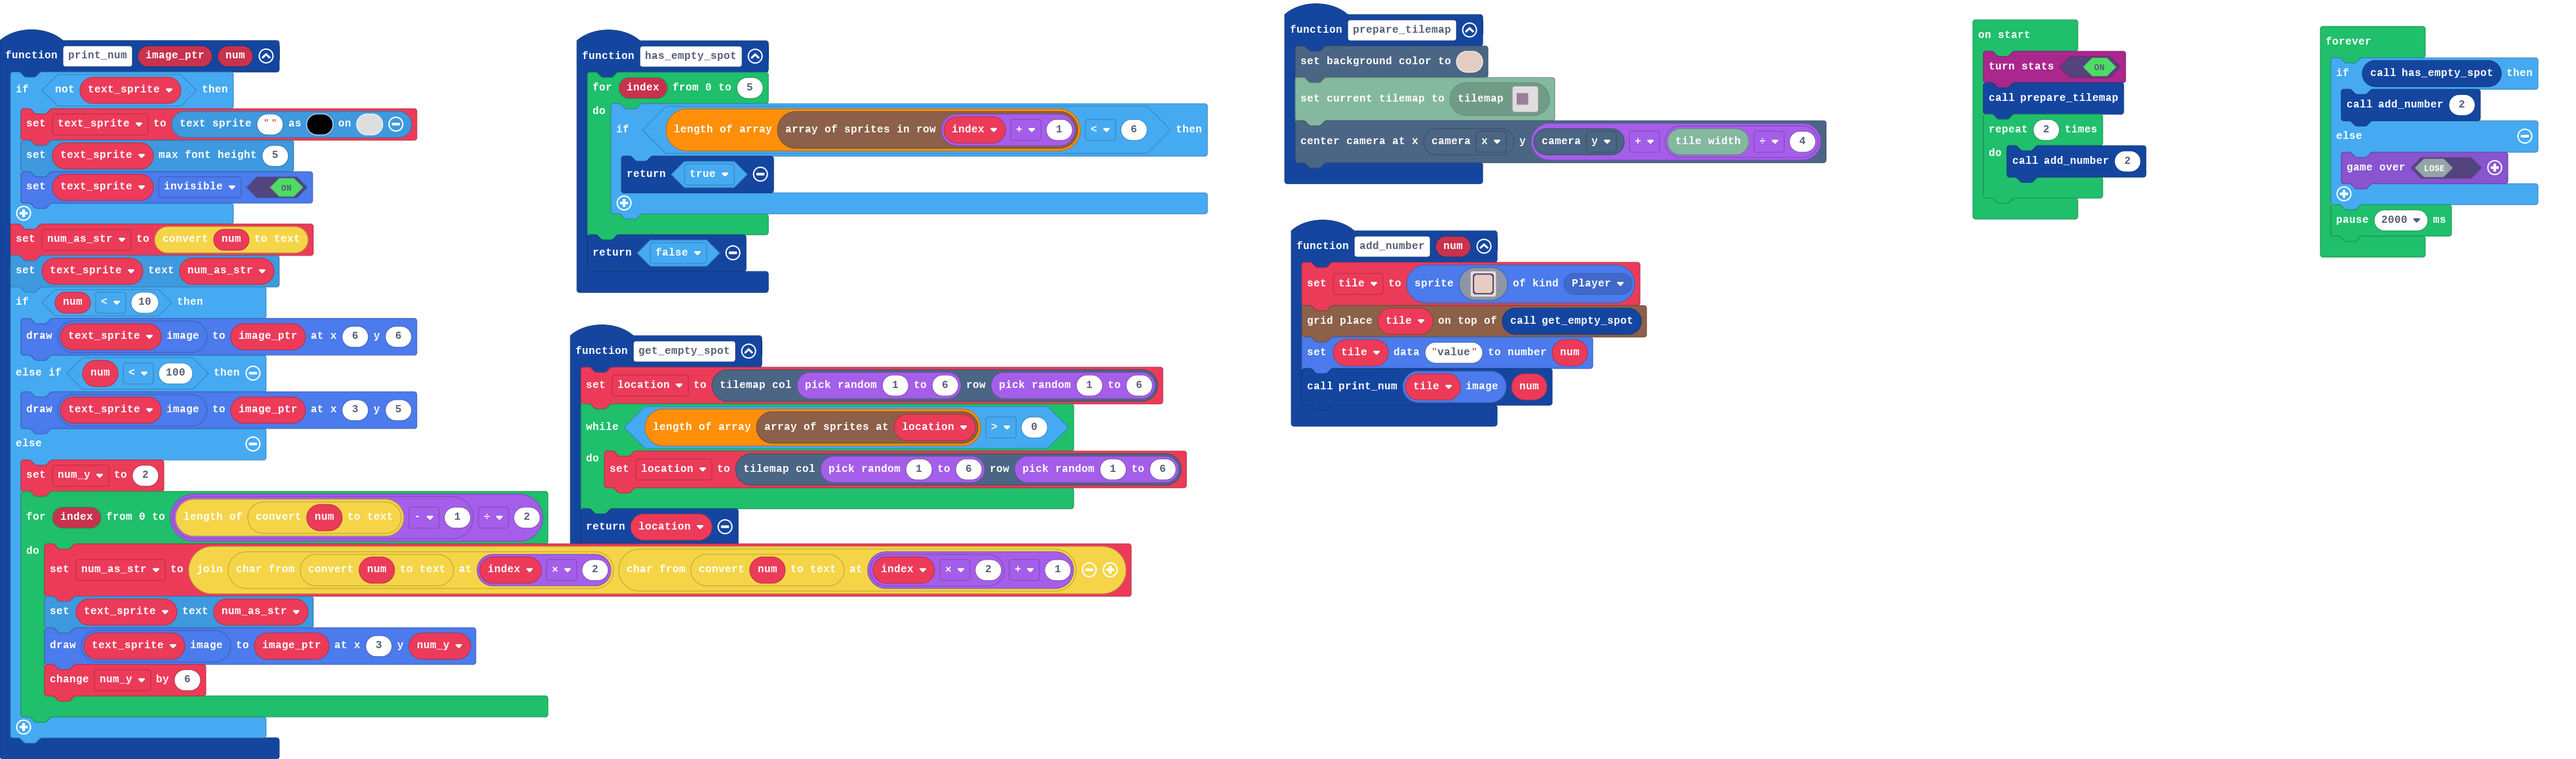
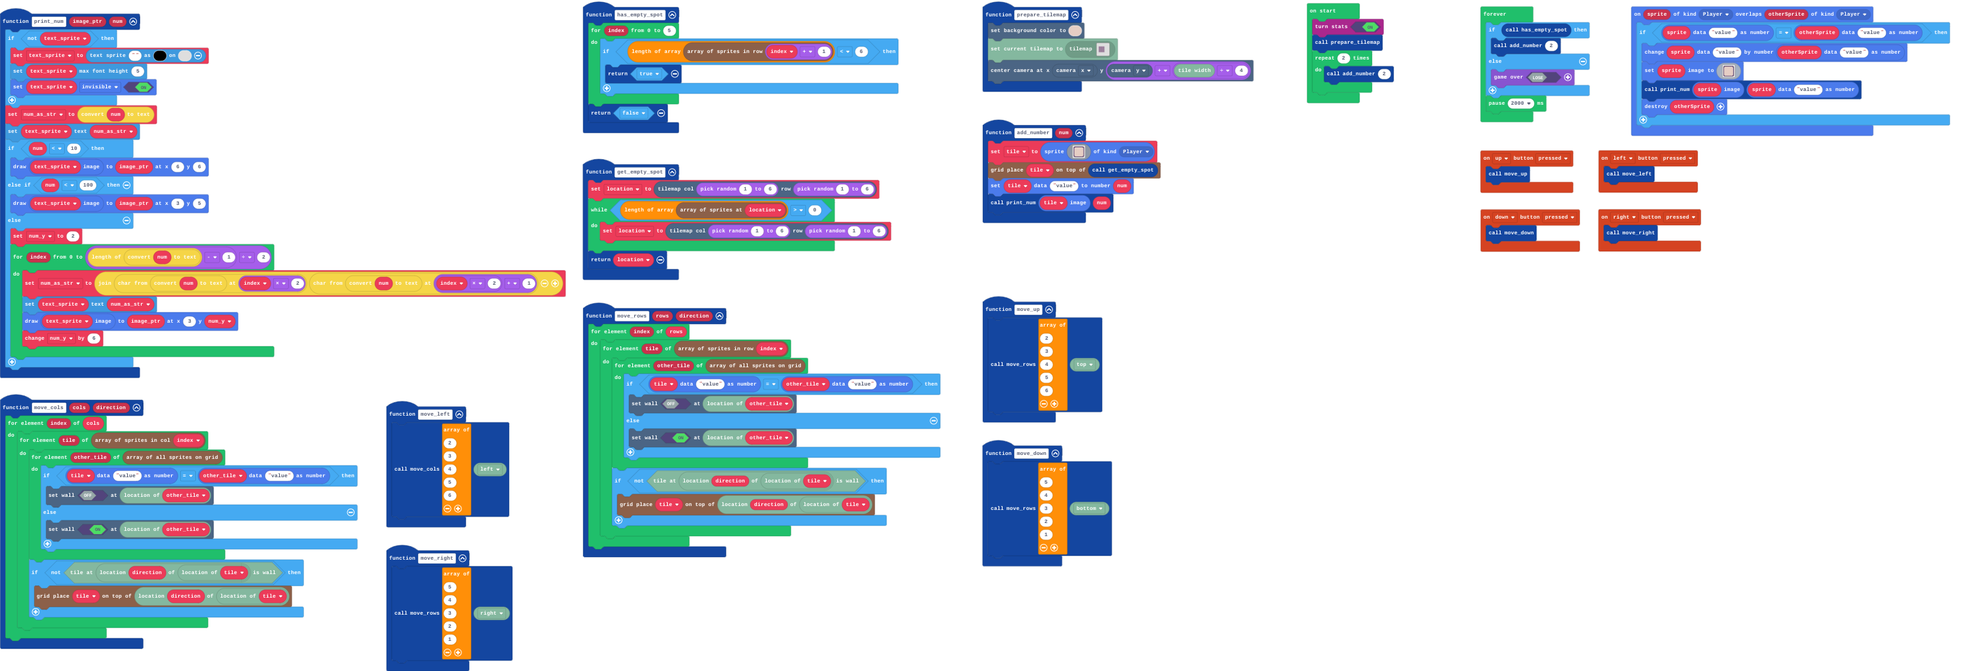
Can move tiles in any direction

diff --git a/main.ts b/main.ts
@@ -1,8 +1,39 @@
+function move_right () {
+    move_rows([
+    5,
+    4,
+    3,
+    2,
+    1
+    ], CollisionDirection.Right)
+}
+controller.up.onEvent(ControllerButtonEvent.Pressed, function () {
+    move_up()
+})
+function move_cols (cols: any[], direction: number) {
+    for (let index of cols) {
+        for (let tile of grid.colSprites(index)) {
+            for (let other_tile of grid.allSprites()) {
+                if (sprites.readDataNumber(tile, "value") == sprites.readDataNumber(other_tile, "value")) {
+                    tiles.setWallAt(tiles.locationOfSprite(other_tile), false)
+                } else {
+                    tiles.setWallAt(tiles.locationOfSprite(other_tile), true)
+                }
+            }
+            if (!(tiles.tileIsWall(tiles.locationInDirection(tiles.locationOfSprite(tile), direction)))) {
+                grid.place(tile, tiles.locationInDirection(tiles.locationOfSprite(tile), direction))
+            }
+        }
+    }
+}
 function prepare_tilemap () {
     scene.setBackgroundColor(13)
     tiles.loadMap(tiles.createMap(tilemap`screen`))
     scene.centerCameraAt(scene.cameraProperty(CameraProperty.X), scene.cameraProperty(CameraProperty.Y) + tiles.tileWidth() / 4)
 }
+controller.left.onEvent(ControllerButtonEvent.Pressed, function () {
+    move_left()
+})
 function get_empty_spot () {
     location = tiles.getTileLocation(randint(1, 6), randint(1, 6))
     while (grid.getSprites(location).length > 0) {
@@ -10,6 +41,54 @@ function get_empty_spot () {
     }
     return location
 }
+function move_rows (rows: any[], direction: number) {
+    for (let index of rows) {
+        for (let tile of grid.rowSprites(index)) {
+            for (let other_tile of grid.allSprites()) {
+                if (sprites.readDataNumber(tile, "value") == sprites.readDataNumber(other_tile, "value")) {
+                    tiles.setWallAt(tiles.locationOfSprite(other_tile), false)
+                } else {
+                    tiles.setWallAt(tiles.locationOfSprite(other_tile), true)
+                }
+            }
+            if (!(tiles.tileIsWall(tiles.locationInDirection(tiles.locationOfSprite(tile), direction)))) {
+                grid.place(tile, tiles.locationInDirection(tiles.locationOfSprite(tile), direction))
+            }
+        }
+    }
+}
+function move_left () {
+    move_cols([
+    2,
+    3,
+    4,
+    5,
+    6
+    ], CollisionDirection.Left)
+}
+controller.right.onEvent(ControllerButtonEvent.Pressed, function () {
+    move_right()
+})
+function move_down () {
+    move_rows([
+    5,
+    4,
+    3,
+    2,
+    1
+    ], CollisionDirection.Bottom)
+}
+controller.down.onEvent(ControllerButtonEvent.Pressed, function () {
+    move_down()
+})
+sprites.onOverlap(SpriteKind.Player, SpriteKind.Player, function (sprite, otherSprite) {
+    if (sprites.readDataNumber(sprite, "value") == sprites.readDataNumber(otherSprite, "value")) {
+        sprites.changeDataNumberBy(sprite, "value", sprites.readDataNumber(otherSprite, "value"))
+        sprite.setImage(assets.image`tile`)
+        print_num(sprite.image, sprites.readDataNumber(sprite, "value"))
+        otherSprite.destroy()
+    }
+})
 function has_empty_spot () {
     for (let index = 0; index <= 5; index++) {
         if (grid.rowSprites(index + 1).length < 6) {
@@ -45,6 +124,15 @@ function print_num (image_ptr: Image, num: number) {
             num_y += 6
         }
     }
+}
+function move_up () {
+    move_rows([
+    2,
+    3,
+    4,
+    5,
+    6
+    ], CollisionDirection.Top)
 }
 let num_y = 0
 let num_as_str = ""

diff --git a/tilemap.g.ts b/tilemap.g.ts
@@ -8,6 +8,8 @@ namespace myTiles {
     export const tile1 = image.ofBuffer(hex``);
     //% fixedInstance jres blockIdentity=images._tile
     export const tile2 = image.ofBuffer(hex``);
+    //% fixedInstance jres blockIdentity=images._tile
+    export const tile3 = image.ofBuffer(hex``);
 
     helpers._registerFactory("tilemap", function(name: string) {
         switch(helpers.stringTrim(name)) {
@@ -58,7 +60,7 @@ namespace myTiles {
 2 . . . . . . 2 2 2 2 
 2 . . . . . . 2 2 2 2 
 2 2 2 2 2 2 2 2 2 2 2 
-`, [myTiles.transparency16,myTiles.tile2], TileScale.Sixteen);
+`, [myTiles.transparency16,myTiles.tile2,myTiles.tile3], TileScale.Sixteen);
         }
         return null;
     })
@@ -71,6 +73,8 @@ namespace myTiles {
             case "tile1":return tile1;
             case "tile0":
             case "tile2":return tile2;
+            case "alt_tile":
+            case "tile3":return tile3;
         }
         return null;
     })
